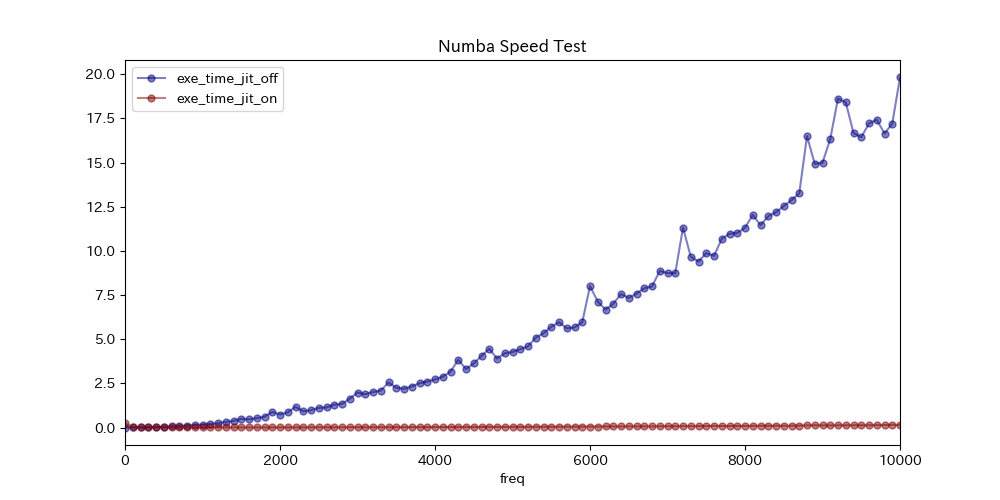
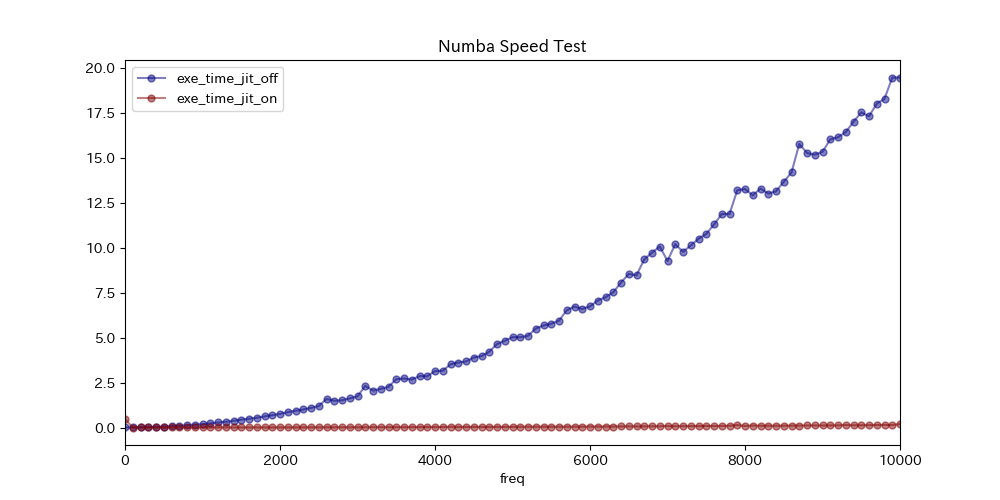
update

diff --git a/numba_speed_test.py b/numba_speed_test.py
@@ -8,7 +8,7 @@ def jit_off(num):
     '''
     numbaを使わない方の関数です。
     '''
-
+    np.set_printoptions(precision=8, suppress=True)
     result = float(0)
     X = np.random.rand(freq)
     Y = np.random.rand(freq)
@@ -23,7 +23,7 @@ def jit_on(freq):
     '''
     numbaを使う方の関数です。
     '''
-
+    np.set_printoptions(precision=8, suppress=True)
     result = float(0)
     X = np.random.rand(freq)
     Y = np.random.rand(freq)
@@ -46,15 +46,16 @@ def exe_time_printer(freq):
     jit_on(freq)
     exe_time_jit_on = time() - start
 
-    return "%.10f"%exe_time_jit_off, "%.10f"%exe_time_jit_on
+    # return "%.10f"%exe_time_jit_off, "%.10f"%exe_time_jit_on
+    return exe_time_jit_off, exe_time_jit_on
 
 frequency = np.arange(0, 10001, 100)
 df = pd.DataFrame(columns=['freq','exe_time_jit_off','exe_time_jit_on'])
 
 for freq in frequency:
     print(freq)
-    exe_time_jit_off, exe_time_jit_on = exe_time_printer(int(freq))
-    se = pd.Series([freq, float(exe_time_jit_off[:8]), float(exe_time_jit_on[:8])], index=df.columns)
+    exe_time_jit_off, exe_time_jit_on = exe_time_printer(freq)
+    se = pd.Series([freq, exe_time_jit_off, exe_time_jit_on], index=df.columns)
     df = df.append(se, ignore_index=True)
 
 df.to_csv('result/result.tsv', sep='\t', index=False)
